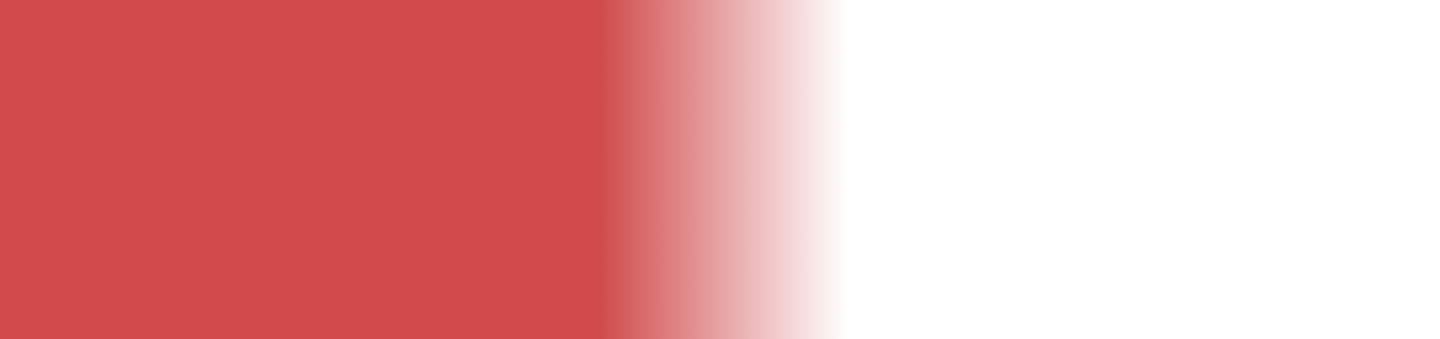
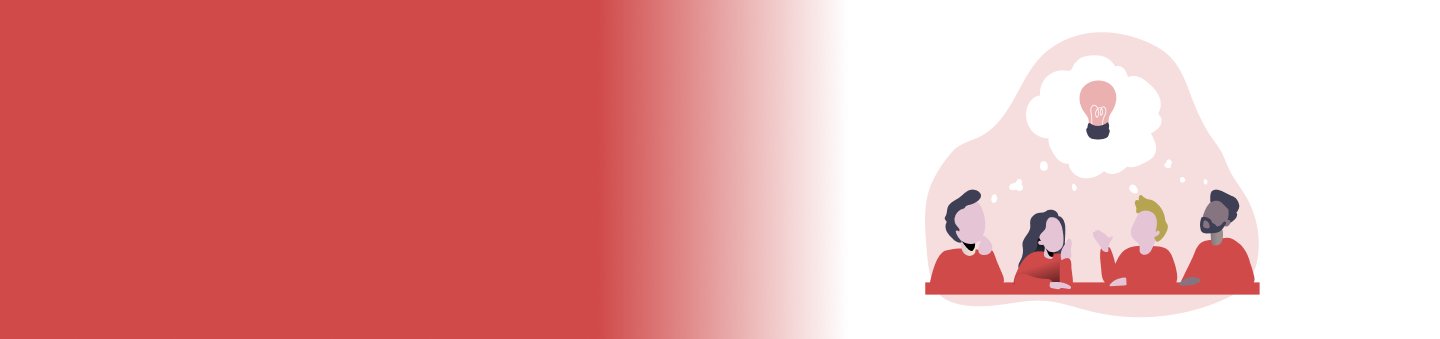
mobile view

Changed region(s): [[0.625, 0.0885, 0.875, 0.944]]

diff --git a/about-us.html b/about-us.html
@@ -212,26 +212,17 @@
 
 
   <!-- Top Banner Section  -->
-  <div class="container-fluid aboutus-banner color-white px-5 pt-md-4 py-md-0 py-4">
-
-    <div class="row">
-      <div class="col-sm-7">
-        <div class="py-2 pt-4">
-          <a href="#!" class="d-color2">Company</a>
-          <span>>></span>
-          <a href="#!" class="d-color2">About Us</a>
-        </div>
-        <div class="p-2 pt-4">
-          <h1 class="font-35 bl-white pl-4 p-2">About US</h1>
-          <h2 class="font-25 pt-2 pl-4" style="max-width: 520px;">
-            We're the dreamers, the builders & the doers
-          </h2>
-        </div>
-      </div>
-
-      <div class="col-sm-5">
-        <img class="img-fluid ml-4" src="./images/about-us.png" alt="">
-      </div>
+  <div class="container-fluid aboutus-banner color-white px-md-5 px-2 pt-md-4">
+    <div class="py-2 pt-3 font-sm-12">
+      <a href="#!" class="d-color2">Company</a>
+      <span>>></span>
+      <a href="#!" class="d-color2">About Us</a>
+    </div>
+    <div class="bl-red mt-md-5">
+      <h1 class="font-35 font-sm-18 bl-white pl-md-2 pl-2 pl-md-4">About Us</h1>
+      <h2 class="font-25 font-sm-14 pt-md-3 px-2 resDiv8">
+        We're the dreamers, the builders & the doers
+      </h2>
     </div>
   </div>
 

diff --git a/style.css b/style.css
@@ -932,9 +932,23 @@ body {
 
 .aboutus-banner {
   background-image: url("./images/aboutus-banner.png");
-  min-height: 337px;
+  height: 337px;
   width: 100%;
   background-repeat: no-repeat;
   background-position: center;
   background-size: 100% 100%;
+}
+
+.resDiv8 {
+  width: 480px;
+}
+
+@media (max-width: 576px) {
+  .aboutus-banner {
+    height: 150px;
+  }
+
+  .resDiv8 {
+    width: 180px;
+  }
 }
